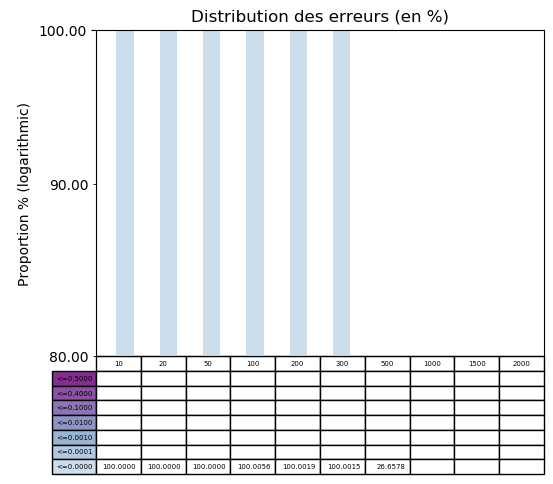
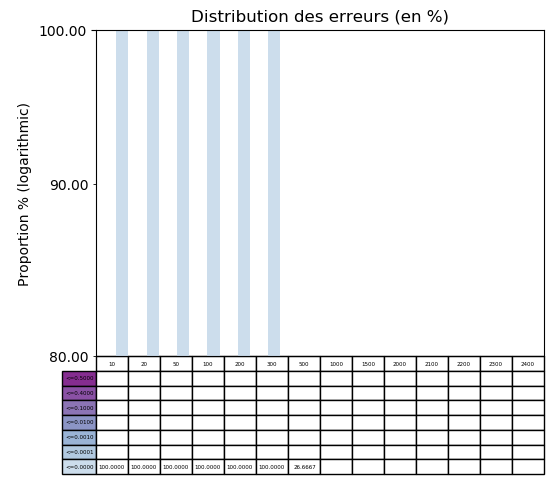
test for 1G

Changed region(s): [[0.0922, 0.062, 0.953, 0.9917]]

diff --git a/cplex/multi/exactitude_multi.py b/cplex/multi/exactitude_multi.py
@@ -21,13 +21,13 @@ data = np.zeros((len(nb_people),7),dtype=float)
 
 nb_Gen_Min = [math.ceil(x/2) for x in nb_Gen_Max]
 cl = 3
-gene_depart = 4
-gene = 4
+gene_depart = 2
+gene = 2
 distance = [0.8,0.7,0.5]
 centimorgans = [0.295797287184, 0.296353882133, 0.299343592142, 0.59]
 w = 0
 
-file = open('../data/multi/lbp/proportion_4G_30_bis', 'w')
+file = open('../data/multi/lbp/proportion_2G_30_obs', 'w')
 #test = open('../data/multi/lbp/test_4G_30', 'w')
 
 for p,g_max,g_min in zip(nb_people,nb_Gen_Max,nb_Gen_Min):
@@ -48,10 +48,11 @@ for p,g_max,g_min in zip(nb_people,nb_Gen_Max,nb_Gen_Min):
             pview.save_bn(bn,f'./bn/bn_{p}_{g}_{nbChild}_{cl}_G{nb}')
 
 
-            ie1 = laz.lazyPosterior(f"./bn/bn_{p}_{g}_{nbChild}_{cl}_G{nb}.bif")
-            ie2 = lbp.lbpPosterior(f"./bn/bn_{p}_{g}_{nbChild}_{cl}_G{nb}.bif")
+            ie1 = laz.lazyPosterior(f"./bn/bn_{p}_{g}_{nbChild}_{cl}_G{nb}.bif",{'X1_1':[1,0,0,0],'X5_1':[1,1,1,0],'X8_1':[1,1,1,0]})
+            ie2 = lbp.lbpPosterior(f"./bn/bn_{p}_{g}_{nbChild}_{cl}_G{nb}.bif",{'X1_1':[1,0,0,0],'X5_1':[1,1,1,0],'X8_1':[1,1,1,0]})
 
             for j in ped.get_pedigree().keys():
+                #for g in range(1, 2):
                 for g in range(1,gene+1):
                     p1 = ie1.posterior(f'X{j}_{g}')
                     p2 = ie2.posterior(f'X{j}_{g}')

diff --git a/cplex/Read_Data.py b/cplex/Read_Data.py
@@ -12,7 +12,7 @@ import os, psutil
 import math
 
 
-nb_people = [10,20,50,100,200,300,500,1000,1500,2000]
+nb_people = [10,20,50,100,200,300,500,1000,1500,2000,2100,2200,2300,2400]
 data = np.zeros((len(nb_people),7),dtype=float)
 gene = 2
 
@@ -21,7 +21,7 @@ def data_to_plot(file):
         tab = f.readlines()
         w = 0
         for line in tab:
-            if data[w].sum() >= 100.0:
+            if data[w].sum() >= 99.9999999999:
                 print('oui')
                 w+=1
                 if w == len(nb_people):

diff --git a/sandbox/doLazyProg.py b/sandbox/doLazyProg.py
@@ -15,9 +15,11 @@ def doLazyProg(bn_name):
         print('too long')
 
 
-def lazyPosterior(bn_name):
+def lazyPosterior(bn_name, evidence=None):
     bn = pview.gum.BayesNet()
     bn.loadBIF(bn_name)
     ie = pview.gum.LazyPropagation(bn)
+    if evidence:
+        ie.setEvidence(evidence)
     ie.makeInference()
     return ie

diff --git a/sandbox/doLBP.py b/sandbox/doLBP.py
@@ -15,9 +15,11 @@ def doLBP(bn_name):
         print('too long')
 
 
-def lbpPosterior(bn_name):
+def lbpPosterior(bn_name,evidence=None):
     bn = pview.gum.BayesNet()
     bn.loadBIF(bn_name)
     ie = pview.gum.LoopyBeliefPropagation(bn)
+    if evidence:
+        ie.setEvidence(evidence)
     ie.makeInference()
     return ie
